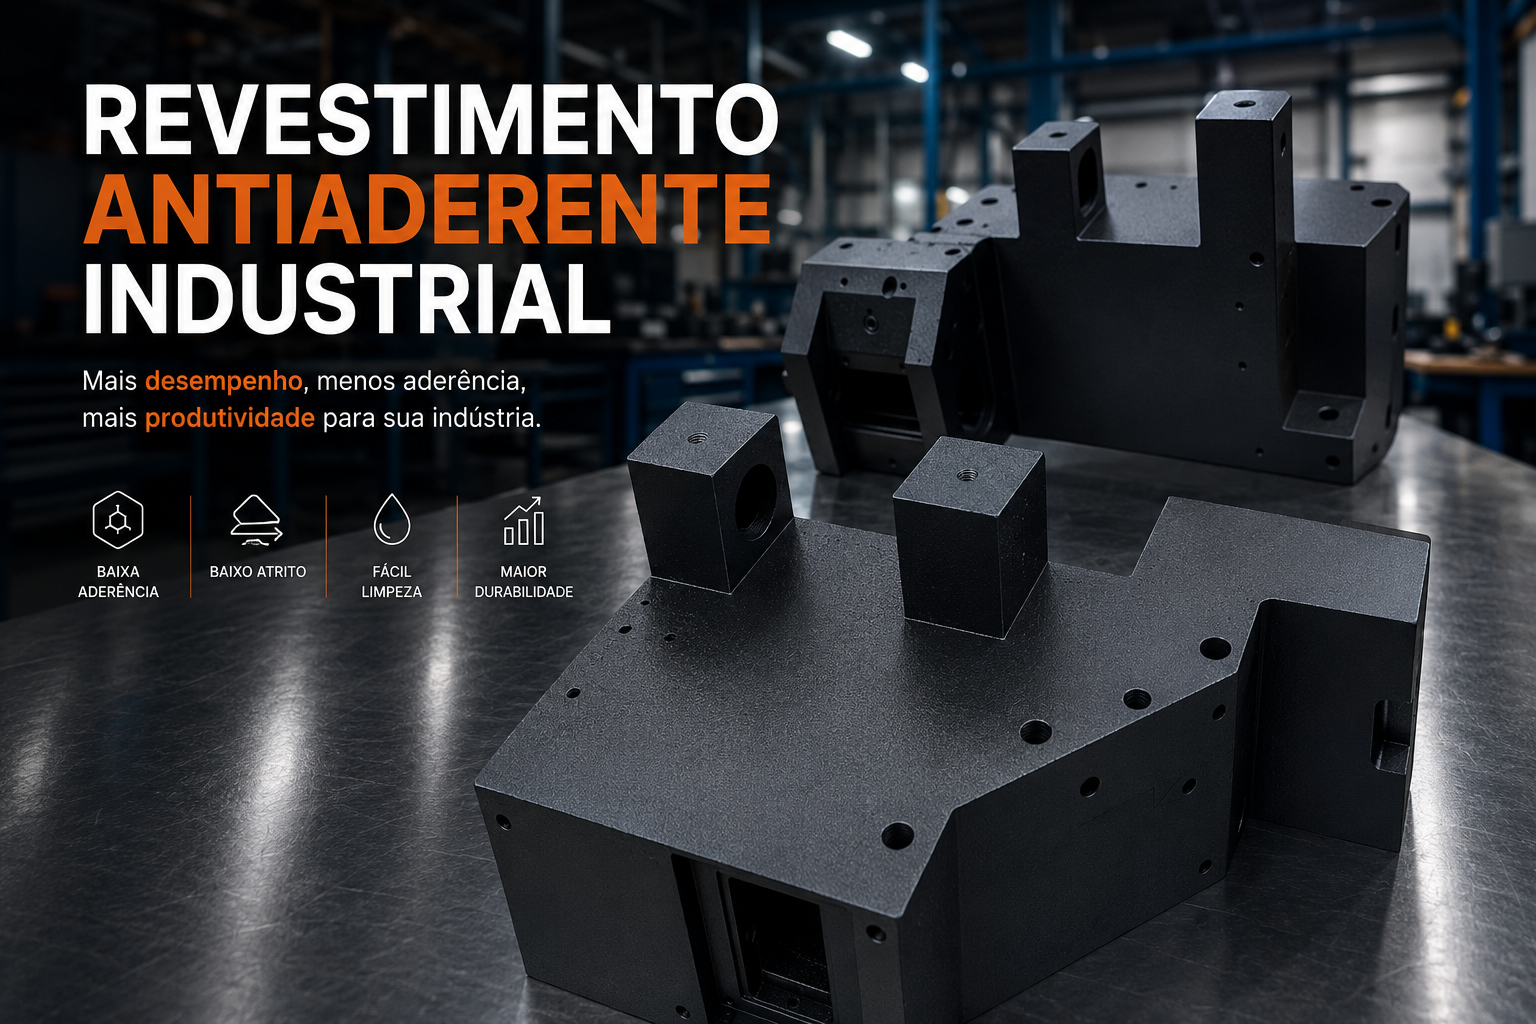
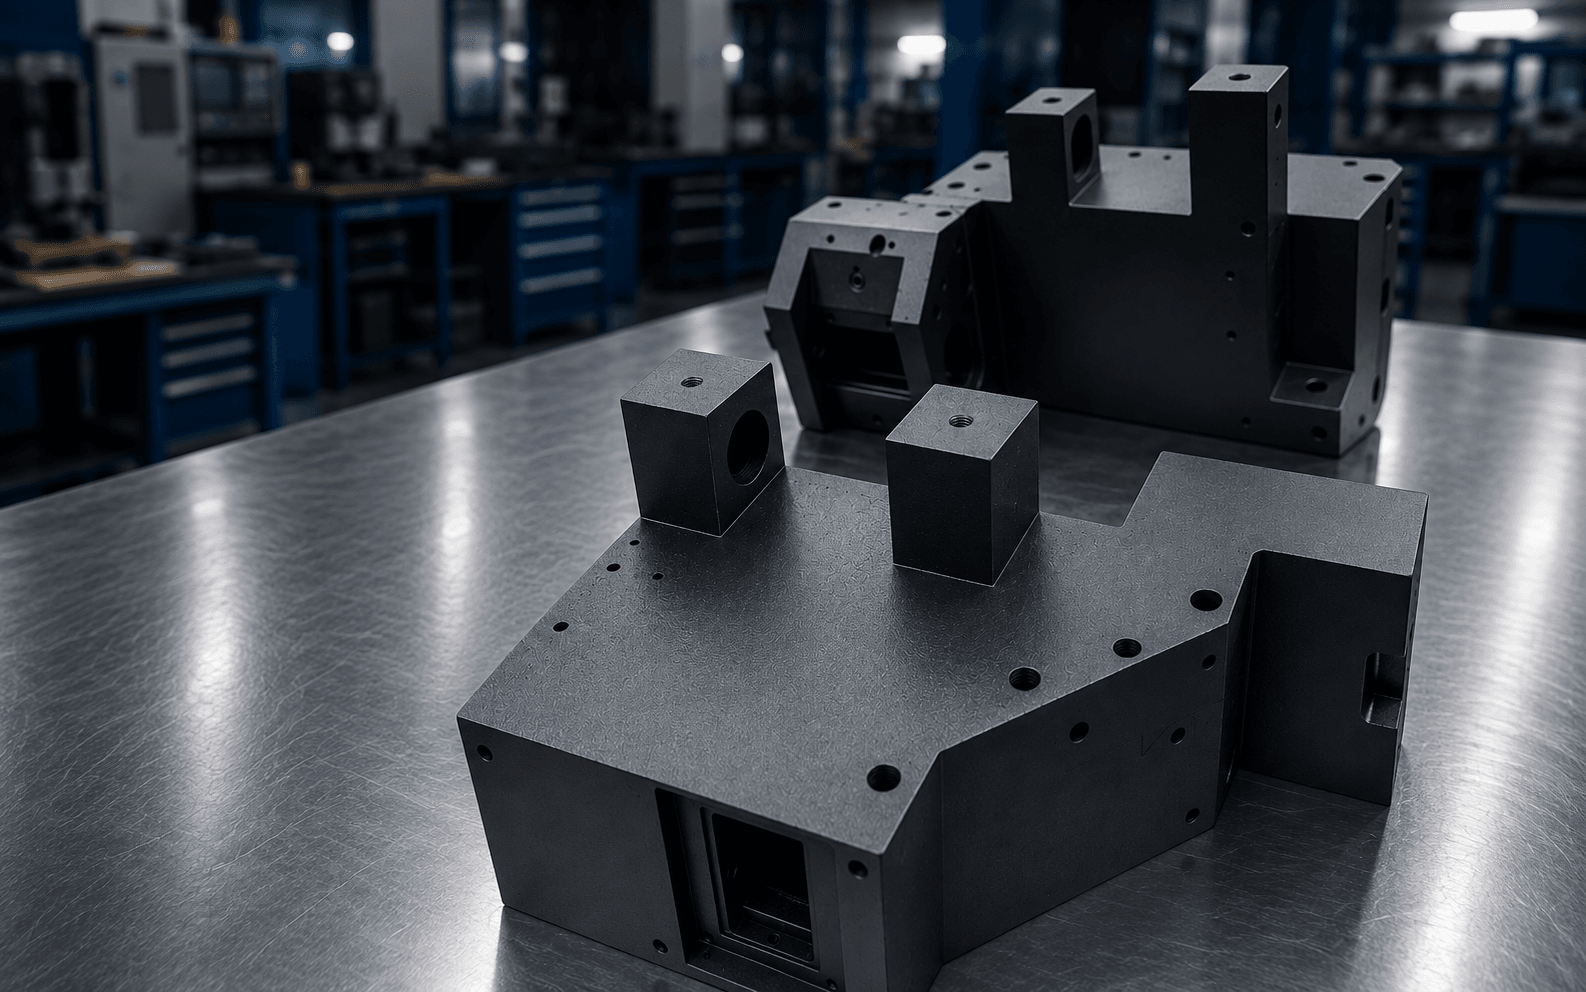
Fix formatting and featured image on the new industrial coating post
The Markdown body lost its heading/bold/list syntax during a Rich
Text paste in the Decap editor, and the featured image was a hero-style
banner with baked-in text that cropped badly in the blog layout.
Restored proper Markdown structure and swapped in a plain product
photo, compressed under the CMS upload limit.

diff --git a/src/content/blog/revestimento-antiaderente-industrial-o-que-é-aplicações-e-benefícios.md b/src/content/blog/revestimento-antiaderente-industrial-o-que-é-aplicações-e-benefícios.md
@@ -20,17 +20,15 @@ tags:
 author: Equipe TexFlow
 draft: false
 ---
-Revestimento Antiaderente Industrial: O Que É, Aplicações e Benefícios
-
 Em diferentes processos industriais, o contato constante entre materiais, produtos e componentes de máquinas pode provocar aderência, acúmulo de resíduos, aumento do atrito e dificuldades de limpeza ou desmoldagem. Além de comprometer a produtividade, essas condições podem aumentar a frequência de manutenção e reduzir a eficiência do processo produtivo.
 
-O revestimento antiaderente industrial é uma solução utilizada para modificar as propriedades superficiais de peças e componentes, criando uma superfície com menor aderência e características adequadas às condições específicas de operação.
+O **revestimento antiaderente industrial** é uma solução utilizada para modificar as propriedades superficiais de peças e componentes, criando uma superfície com menor aderência e características adequadas às condições específicas de operação.
 
 Dependendo da aplicação, esses revestimentos podem contribuir para reduzir o atrito, facilitar a liberação de materiais, simplificar processos de limpeza e aumentar a eficiência operacional.
 
 Por isso, os revestimentos antiaderentes não estão restritos a utensílios domésticos. Eles fazem parte da engenharia de superfícies aplicada a diferentes segmentos da indústria.
 
-O que é revestimento antiaderente industrial?
+## O que é revestimento antiaderente industrial?
 
 O revestimento antiaderente industrial consiste na aplicação de um material específico sobre a superfície de uma peça ou componente com o objetivo de proporcionar propriedades funcionais que a superfície original não possui ou precisa ter aprimoradas.
 
@@ -40,17 +38,17 @@ Na prática, isso significa dificultar que determinados materiais permaneçam ad
 
 Dependendo do sistema de revestimento utilizado e das necessidades da aplicação, também podem ser obtidas propriedades relacionadas a:
 
-baixo coeficiente de atrito;
-facilidade de limpeza;
-melhor deslizamento;
-resistência química;
-resistência a determinadas temperaturas;
-redução do acúmulo de resíduos;
-melhoria na liberação ou desmoldagem de produtos.
+- Baixo coeficiente de atrito
+- Facilidade de limpeza
+- Melhor deslizamento
+- Resistência química
+- Resistência a determinadas temperaturas
+- Redução do acúmulo de resíduos
+- Melhoria na liberação ou desmoldagem de produtos
 
 A escolha do revestimento, entretanto, deve considerar as condições reais às quais a peça será submetida.
 
-Como funciona um revestimento antiaderente?
+## Como funciona um revestimento antiaderente?
 
 O princípio está relacionado às características da superfície criada pelo revestimento.
 
@@ -62,11 +60,11 @@ Com uma superfície apropriada para a aplicação, torna-se possível reduzir a 
 
 Em processos industriais repetitivos, pequenas melhorias nessa interação podem representar ganhos importantes de produtividade.
 
-Quais materiais podem ser utilizados?
+## Quais materiais podem ser utilizados?
 
 Existem diferentes tecnologias de revestimentos antiaderentes industriais.
 
-Entre as mais conhecidas estão os revestimentos baseados em fluoropolímeros, incluindo o PTFE (politetrafluoretileno).
+Entre as mais conhecidas estão os revestimentos baseados em fluoropolímeros, incluindo o **PTFE** (politetrafluoretileno).
 
 O PTFE tornou-se conhecido principalmente por apresentar características como baixo coeficiente de atrito e propriedades antiaderentes.
 
@@ -76,57 +74,53 @@ Dependendo das condições de trabalho, podem ser utilizados diferentes sistemas
 
 Por isso, a especificação técnica é uma etapa importante do projeto.
 
-Onde o revestimento antiaderente industrial pode ser aplicado?
+## Onde o revestimento antiaderente industrial pode ser aplicado?
 
 A utilização é bastante ampla porque problemas relacionados à aderência e ao atrito aparecem em diversos processos produtivos.
 
 Entre os componentes que podem receber revestimentos técnicos estão:
 
-Moldes e matrizes: superfícies antiaderentes podem facilitar determinadas operações de desmoldagem e reduzir a aderência do material processado.
-
-Guias e componentes de deslizamento: a redução do atrito pode favorecer o movimento de materiais e componentes em determinados equipamentos.
-
-Placas e superfícies de contato: podem receber revestimentos quando existe necessidade de reduzir aderência ou acúmulo de resíduos.
-
-Componentes de máquinas: peças específicas podem ser revestidas conforme as condições do processo industrial.
-
-Formas e componentes da indústria alimentícia: dependendo do revestimento utilizado e de sua adequação à aplicação, superfícies antiaderentes podem facilitar a liberação dos alimentos e a limpeza dos componentes.
+- **Moldes e matrizes**: superfícies antiaderentes podem facilitar determinadas operações de desmoldagem e reduzir a aderência do material processado.
+- **Guias e componentes de deslizamento**: a redução do atrito pode favorecer o movimento de materiais e componentes em determinados equipamentos.
+- **Placas e superfícies de contato**: podem receber revestimentos quando existe necessidade de reduzir aderência ou acúmulo de resíduos.
+- **Componentes de máquinas**: peças específicas podem ser revestidas conforme as condições do processo industrial.
+- **Formas e componentes da indústria alimentícia**: dependendo do revestimento utilizado e de sua adequação à aplicação, superfícies antiaderentes podem facilitar a liberação dos alimentos e a limpeza dos componentes.
 
 Cada aplicação precisa ser analisada individualmente.
 
-Principais benefícios do revestimento antiaderente industrial
+## Principais benefícios do revestimento antiaderente industrial
 
 A principal vantagem é modificar a superfície da peça sem necessariamente substituir todo o componente.
 
 Quando corretamente especificado, o revestimento pode proporcionar diferentes benefícios ao processo industrial.
 
-1. Redução da aderência
+### 1. Redução da aderência
 
 É a característica central desse tipo de revestimento.
 
 Materiais que normalmente adeririam à superfície podem ser liberados com maior facilidade, dependendo das condições da aplicação.
 
-2. Redução do atrito
+### 2. Redução do atrito
 
 Determinados revestimentos apresentam baixo coeficiente de atrito, favorecendo aplicações nas quais materiais precisam deslizar sobre uma superfície.
 
-3. Facilidade de limpeza
+### 3. Facilidade de limpeza
 
 Uma superfície com menor aderência tende a acumular menos material, o que pode facilitar procedimentos de limpeza e manutenção.
 
-4. Menor acúmulo de resíduos
+### 4. Menor acúmulo de resíduos
 
 Resíduos acumulados em equipamentos podem interferir na qualidade do processo e exigir paradas periódicas.
 
 Reduzir esse acúmulo pode contribuir para uma operação mais eficiente.
 
-5. Ganhos de produtividade
+### 5. Ganhos de produtividade
 
 Quando há menos aderência, menos limpeza e menor necessidade de intervenções, o equipamento pode permanecer disponível por períodos maiores.
 
 O benefício não está somente na peça revestida, mas no impacto que ela pode gerar sobre todo o processo produtivo.
 
-Revestimento antiaderente e PTFE são a mesma coisa?
+## Revestimento antiaderente e PTFE são a mesma coisa?
 
 Não exatamente.
 
@@ -140,29 +134,29 @@ Essa diferença é importante porque a escolha de um revestimento industrial nã
 
 O primeiro passo é compreender qual problema precisa ser resolvido.
 
-Como escolher o revestimento correto?
+## Como escolher o revestimento correto?
 
 Antes da aplicação, é importante analisar o ambiente de trabalho da peça.
 
 Algumas informações ajudam a determinar a solução mais adequada:
 
-material da peça;
-temperatura de operação;
-produto que entra em contato com a superfície;
-existência de agentes químicos;
-nível de abrasão;
-necessidade de deslizamento;
-necessidade de desmoldagem;
-geometria e dimensões da peça;
-frequência de utilização;
-condições de limpeza;
-exigências específicas do segmento industrial.
+- Material da peça
+- Temperatura de operação
+- Produto que entra em contato com a superfície
+- Existência de agentes químicos
+- Nível de abrasão
+- Necessidade de deslizamento
+- Necessidade de desmoldagem
+- Geometria e dimensões da peça
+- Frequência de utilização
+- Condições de limpeza
+- Exigências específicas do segmento industrial
 
 Uma peça submetida a abrasão constante, por exemplo, apresenta condições muito diferentes de uma superfície cuja principal necessidade seja apenas facilitar a liberação de determinado material.
 
 Por isso, a análise da aplicação é tão importante quanto a escolha do revestimento.
 
-A preparação da superfície também é importante?
+## A preparação da superfície também é importante?
 
 Sim.
 
@@ -174,7 +168,7 @@ O processo pode variar conforme o material da peça, seu estado superficial e o 
 
 Por esse motivo, a aplicação de revestimentos técnicos deve considerar o processo completo: preparação, aplicação, acabamento e condições de utilização.
 
-Revestimento antiaderente pode aumentar a vida útil da peça?
+## Revestimento antiaderente pode aumentar a vida útil da peça?
 
 Em determinadas aplicações, um revestimento corretamente especificado pode contribuir para preservar a superfície e melhorar seu desempenho ao longo da operação.
 
@@ -186,7 +180,7 @@ Por isso, não existe uma durabilidade universal que possa ser atribuída a todo
 
 A avaliação precisa considerar o processo em que a peça será utilizada.
 
-Revestimento de peças novas e recuperação de componentes
+## Revestimento de peças novas e recuperação de componentes
 
 O revestimento antiaderente pode ser considerado tanto no desenvolvimento de componentes novos quanto em peças que já fazem parte de equipamentos industriais.
 
@@ -196,7 +190,7 @@ Essa análise é especialmente interessante em componentes industriais específi
 
 A possibilidade de reaplicação, entretanto, depende das condições estruturais e dimensionais da peça.
 
-Qual a diferença entre revestimento e texturização industrial?
+## Qual a diferença entre revestimento e texturização industrial?
 
 Embora ambos estejam relacionados à engenharia de superfícies, são processos diferentes.
 
@@ -206,19 +200,17 @@ A texturização industrial, por sua vez, modifica a topografia superficial, cri
 
 Dependendo do projeto, essas tecnologias podem atender necessidades completamente diferentes ou fazer parte de uma estratégia conjunta de tratamento de superfícies.
 
-Por que procurar uma empresa especializada?
+## Por que procurar uma empresa especializada?
 
 O revestimento antiaderente industrial não deve ser tratado simplesmente como uma pintura.
 
-É uma solução técnica cuja eficiência depende da combinação entre:
-
-substrato + preparação da superfície + revestimento + processo de aplicação + condições reais de operação.
+É uma solução técnica cuja eficiência depende da combinação entre substrato, preparação da superfície, revestimento, processo de aplicação e condições reais de operação.
 
 Uma especificação inadequada pode fazer com que um revestimento com excelentes características técnicas apresente desempenho insatisfatório simplesmente porque não era a solução adequada para aquela aplicação.
 
 Por isso, fornecer informações sobre o processo, temperatura, material processado e condições de utilização ajuda a definir a alternativa mais apropriada.
 
-Revestimento Antiaderente Industrial na TexFlow
+## Revestimento Antiaderente Industrial na TexFlow
 
 A TexFlow atua com soluções de revestimento e engenharia de superfícies para aplicações industriais, avaliando as características da peça e as necessidades de cada processo.
 
@@ -226,6 +218,6 @@ O objetivo é identificar uma solução compatível com a aplicação, considera
 
 Se sua indústria possui peças com problemas de aderência, dificuldade de desmoldagem, acúmulo de resíduos ou necessidades específicas relacionadas à superfície, a aplicação pode ser analisada tecnicamente antes da definição do revestimento.
 
-Precisa avaliar uma peça ou aplicação?
+## Precisa avaliar uma peça ou aplicação?
 
 Entre em contato com a TexFlow e envie informações sobre a peça, material, processo e condições de utilização. A partir desses dados, é possível avaliar a solução de revestimento mais adequada para a aplicação.
